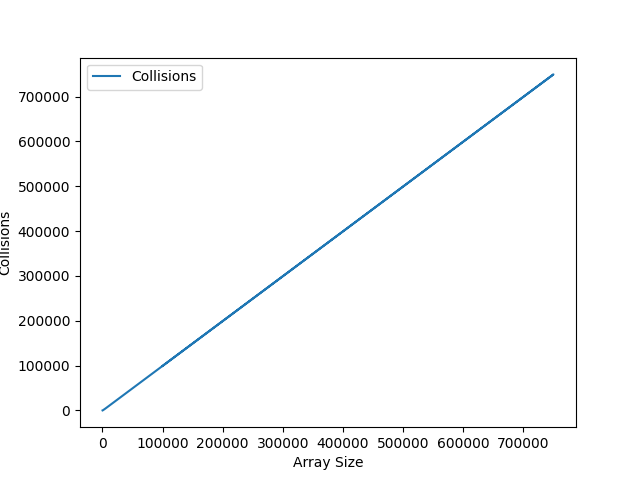
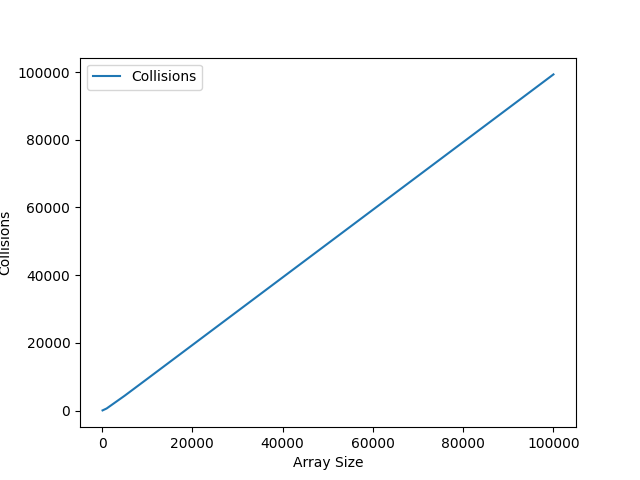
added multimap

diff --git a/lab2/main.py b/lab2/main.py
@@ -6,6 +6,7 @@ from algos.bin_tree import BinarySearchTree
 from data.gen import generate_objects_array, generate_combinations
 from algos.hash import HashTable
 from algos.red_black_tree import RedBlackTree
+from algos.multimap import MultiMap
 
 from loguru import logger
 
@@ -19,6 +20,7 @@ def compare_search_time(sizes):
     binary_tree_time = []
     red_black_tree_time = []
     hashtable_time = []
+    multimap_time = []
     keys = generate_combinations()
 
     for size in sizes:
@@ -68,9 +70,19 @@ def compare_search_time(sizes):
 
         logger.info(f'Red black tree time: {red_black_tree_time[-1]}')
 
+        multimap = MultiMap()
+        for obj in objects:
+            multimap.insert(obj["key"], obj["value"])
+
+        multimap_start_time = time.time()
+        multimap.search(key)
+        multimap_end_time = time.time()
+        multimap_time.append(multimap_end_time - multimap_start_time)
+
     plt.plot(sizes, binary_tree_time, label="Binary Tree")
     plt.plot(sizes, red_black_tree_time, label="Red Black Tree")
     plt.plot(sizes, hashtable_time, label="Hash Table")
+    plt.plot(sizes, multimap_time, label="Multimap Table")
     plt.xlabel("Array Size")
     plt.ylabel("Search Time")
     plt.legend()

diff --git a/lab2/algos/multimap.py b/lab2/algos/multimap.py
@@ -1,0 +1,12 @@
+from collections import defaultdict
+
+
+class MultiMap:
+    def __init__(self) -> None:
+        self.multi_map = defaultdict(set)
+
+    def insert(self, key, value):
+        self.multi_map[key].add(value)
+
+    def search(self, key):
+        return self.multi_map[key]

diff --git a/lab2/test.py b/lab2/test.py
@@ -3,7 +3,7 @@ import matplotlib.pyplot as plt
 from algos.hash import count_collisions
 
 
-sizes = [100, 1000, 5000, 10000, 50000, 750000, 100000]
+sizes = [100, 1000, 5000, 10000, 50000, 75000, 100000]
 collisions = []
 
 for size in sizes:
